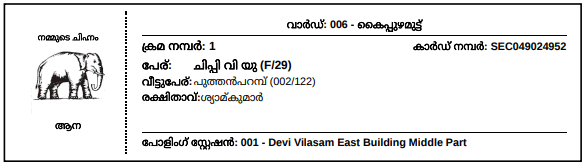
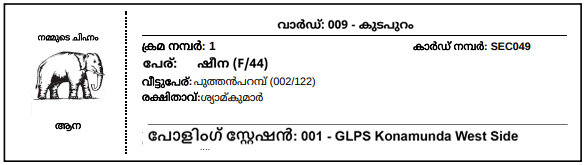
Fix slips per page switching - correct permanent PDF directory and improve cache check logic

diff --git a/controllers/slipController.js b/controllers/slipController.js
@@ -484,9 +484,13 @@ export const generatePreview = async (req, res) => {
             hasLocation: !!order.location,
             customizationKeys: order.customization ? Object.keys(order.customization) : [],
             locationKeys: order.location ? Object.keys(order.location) : [],
-            slipsPerPage: order.customization?.slipsPerPage
+            slipsPerPage: order.customization?.slipsPerPage,
+            previewPdfFilename: order.previewPdfFilename,
+            permanentPdfFilename: order.permanentPdfFilename
         });
         console.log('🎫 Customization.slipsPerPage:', order.customization?.slipsPerPage);
+        console.log('📄 PreviewPdfFilename:', order.previewPdfFilename);
+        console.log('📄 PermanentPdfFilename:', order.permanentPdfFilename);
 
         // Ensure slipsPerPage is set (for backward compatibility with old orders)
         if (!order.customization.slipsPerPage) {
@@ -508,7 +512,8 @@ export const generatePreview = async (req, res) => {
         }
 
         // ✅ CHECK IF PREVIEW PDF ALREADY EXISTS (avoid re-generation)
-        if (order.previewPdfFilename) {
+        // Skip cache if previewPdfFilename is null or empty (indicates it was just cleared)
+        if (order.previewPdfFilename && order.previewPdfFilename.trim()) {
             const tempDir = path.join(__dirname, '..', 'public', 'temp-pdfs');
             const existingPath = path.join(tempDir, order.previewPdfFilename);
             if (fs.existsSync(existingPath)) {
@@ -524,6 +529,8 @@ export const generatePreview = async (req, res) => {
             } else {
                 console.log('⚠ Preview filename in DB but file missing, regenerating...');
             }
+        } else {
+            console.log('🔄 No cached preview (previewPdfFilename is null/empty), generating fresh preview...');
         }
 
         // If Malayalam name is not in order, fetch it from Symbol model

diff --git a/controllers/orderController.js b/controllers/orderController.js
@@ -331,7 +331,7 @@ export const updateSlipsPerPage = async (req, res) => {
 
         // Delete existing permanent PDF if it exists
         if (order.permanentPdfFilename) {
-            const pdfsDir = path.join(__dirname, '..', 'public', 'pdfs');
+            const pdfsDir = path.join(__dirname, '..', 'public', 'permanent-pdfs');
             const permanentPath = path.join(pdfsDir, order.permanentPdfFilename);
             
             try {
